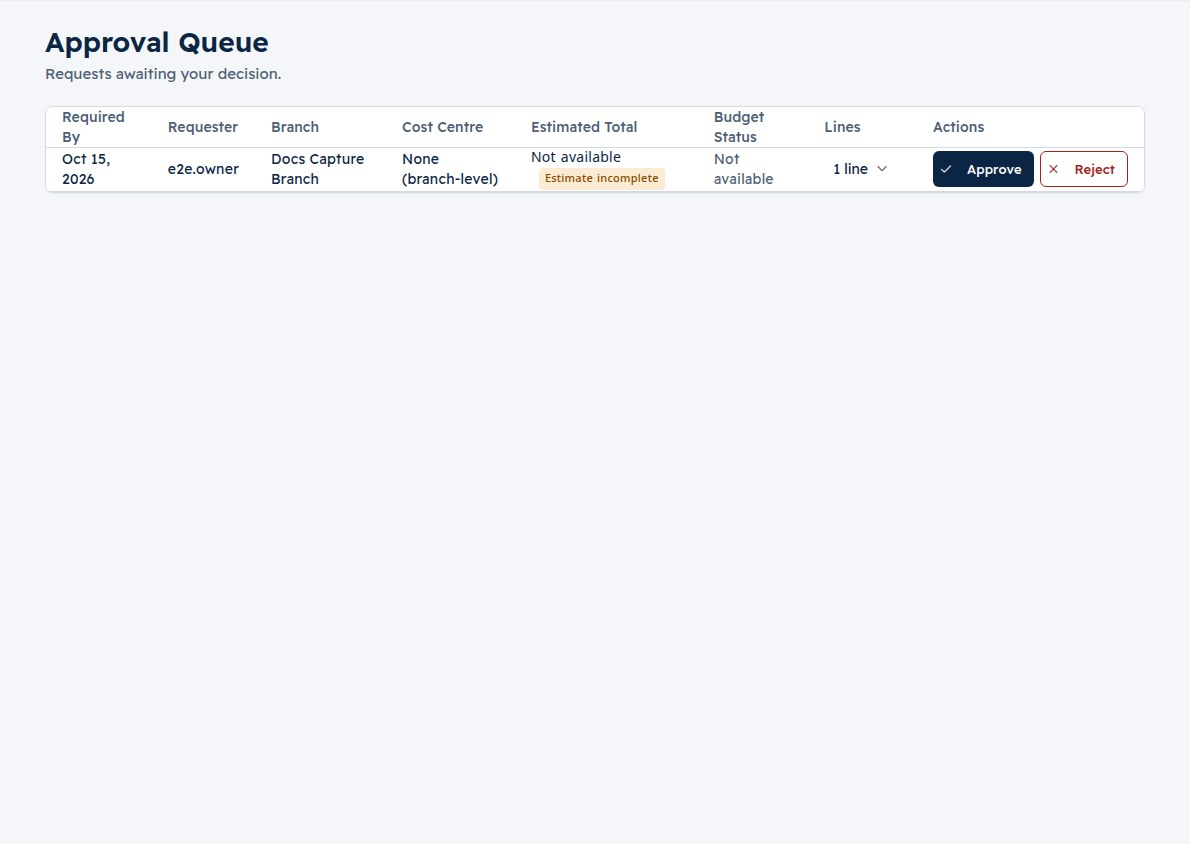
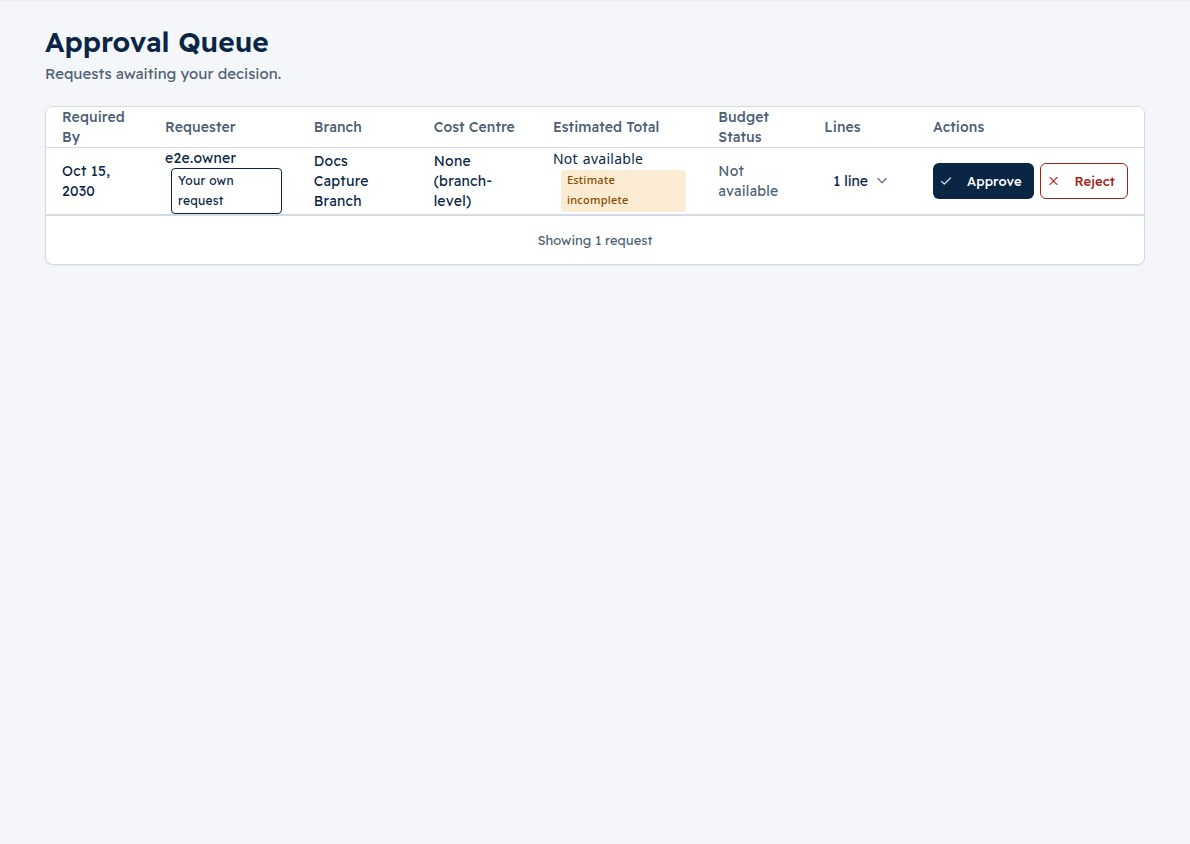
feat(approvals): show self-approved decisions and explain a refused self-decision on the web (P-173 web, PPS-167) (#496)
* feat(approvals): show self-approved decisions and explain a refused self-decision on the web (P-173 part 2, PPS-167)

The request page and the approval queue show when the requester is the
approver (a sole owner), and a refused decision by the requester gets its
own message and reloads the queue.

* fix(approvals): show the self-approved marks only where they are true (P-173 part 2, PPS-167)

* docs(screenshots): refresh the approval queue capture for the own-request badge (P-173 part 2, PPS-167)

Only the file flagged by the drift gate (2.07% of pixels, threshold 1%).

---------

diff --git a/apps/web/src/app/features/approvals/approval-queue/approval-queue.component.spec.ts b/apps/web/src/app/features/approvals/approval-queue/approval-queue.component.spec.ts
@@ -92,11 +92,12 @@ describe('ApprovalQueueComponent', () => {
   let snackBarSpy: jasmine.SpyObj<MatSnackBar>;
   let routerSpy: jasmine.SpyObj<Router>;
   const role = signal<Role | null>('buyer');
-  let sessionSpy: { hasRole: jasmine.Spy; role: typeof role };
+  let sessionSpy: { hasRole: jasmine.Spy; role: typeof role; currentMember: jasmine.Spy };
 
   beforeEach(async () => {
     role.set('buyer');
     sessionSpy = {
+      currentMember: jasmine.createSpy('currentMember').and.returnValue({ membership_id: 'mem-requester-1' }),
       hasRole: jasmine.createSpy('hasRole').and.callFake((...roles: readonly Role[]) => {
         const current = role();
         return current ? roles.includes(current) : false;
@@ -212,6 +213,103 @@ describe('ApprovalQueueComponent', () => {
     fixture = TestBed.createComponent(ApprovalQueueComponent);
     component = fixture.componentInstance;
     fixture.detectChanges();
+  });
+
+  describe('PPS-167 self approval', () => {
+    function markedRequest(flag: boolean | undefined): PurchaseRequest {
+      const step = {
+        id: 'step-own', assigned_membership_id: 'mem-requester-1',
+        source: 'owner_fallback' as const, status: 'pending' as const,
+        ...(flag === undefined ? {} : { self_approval: flag }),
+      };
+      return { ...mockPendingRequests[0], approval_step: step };
+    }
+
+    for (const split of [false, true]) {
+      for (const viewer of ['another-member', null]) {
+        it(`hides a colleague's self-approval badge: split=${split}, viewer=${viewer}`, () => {
+          sessionSpy.currentMember.and.returnValue(viewer ? { membership_id: viewer } : null);
+          const request = markedRequest(true);
+          component.pendingRequests.set(split ? [{
+            ...request,
+            request_group: {
+              id: 'group-own', rfq_id: 'rfq-own', position: 1, size: 1,
+              combined_total: { amount: '1250', currency: 'SAR' },
+              best_single_total: null, saving: null, sibling_request_ids: [],
+            },
+          }] : [request]);
+          fixture.detectChanges();
+          expect((fixture.nativeElement as HTMLElement).querySelector('.own-request-badge')).toBeNull();
+        });
+      }
+    }
+
+    for (const locale of ['en', 'ar']) {
+      for (const flag of [true, false, undefined]) {
+        for (const split of [false, true]) {
+          it(`renders own-request badge only for true: ${locale}, ${flag}, split=${split}`, () => {
+            TestBed.inject(TranslateService).use(locale);
+            const marked = markedRequest(flag);
+            const requests = split
+              ? [{ ...markedRequest(true), requested_by_membership_id: 'another-member' }, { ...marked, id: 'req-other' }].map((request, i) => ({
+                  ...request,
+                  request_group: {
+                    id: 'group-own', rfq_id: 'rfq-own', position: i + 1, size: 2,
+                    combined_total: { amount: '2500', currency: 'SAR' },
+                    best_single_total: null, saving: null, sibling_request_ids: [],
+                  },
+                }))
+              : [marked];
+            component.pendingRequests.set(requests);
+            fixture.detectChanges();
+            const badges = (fixture.nativeElement as HTMLElement).querySelectorAll('.own-request-badge');
+            expect(badges.length).toBe(flag === true ? 1 : 0);
+            if (flag === true) {
+              expect(badges[0]?.textContent?.trim()).toBe(locale === 'ar' ? 'طلبك أنت' : 'Your own request');
+            }
+          });
+        }
+      }
+      for (const action of ['approve', 'reject'] as const) {
+        for (const split of [false, true]) {
+          it(`localizes refused ${action}, reloads stale rows: ${locale}, split=${split}`, () => {
+            TestBed.inject(TranslateService).use(locale);
+            const failure = throwError(() => new HttpErrorResponse({
+              status: 403, error: { message: 'Generic refusal', details: { reason: 'self_decision_not_allowed' } },
+            }));
+            requestsApi.approveRequest.and.returnValue(failure);
+            requestsApi.rejectRequest.and.returnValue(failure);
+            approvalsApi.approveGroup.and.returnValue(failure);
+            approvalsApi.rejectGroup.and.returnValue(failure);
+            approvalsApi.listPendingApprovals.and.returnValue(of({ items: [], next_cursor: null }));
+            const before = approvalsApi.listPendingApprovals.calls.count();
+            if (split) component.submitGroupDecision('group-own', action);
+            else component.submitDecision('req-001', action);
+            fixture.detectChanges();
+            const message = locale === 'ar'
+              ? 'لا يمكنك اعتماد أو رفض طلب قدّمته بنفسك. يجب أن يتخذ القرار مالك آخر أو مسؤول اعتماد.'
+              : "You can't decide a request you submitted. Another owner or approver needs to decide it.";
+            expect(component.errorMessage()).toBe(message);
+            expect((fixture.nativeElement as HTMLElement).textContent).toContain(message);
+            expect(approvalsApi.listPendingApprovals.calls.count()).toBe(before + 1);
+            expect(component.pendingRequests()).toEqual([]);
+          });
+        }
+      }
+    }
+
+    for (const reason of ['another_reason', undefined]) {
+      it(`preserves other 403 behaviour: ${reason}`, () => {
+        const before = approvalsApi.listPendingApprovals.calls.count();
+        requestsApi.approveRequest.and.returnValue(throwError(() => new HttpErrorResponse({
+          status: 403, error: { message: 'Existing refusal', trace_id: 'trace-own', details: { reason } },
+        })));
+        component.submitDecision('req-001', 'approve');
+        expect(component.errorMessage()).toBe('Existing refusal');
+        expect(component.errorTraceId()).toBe('trace-own');
+        expect(approvalsApi.listPendingApprovals.calls.count()).toBe(before);
+      });
+    }
   });
 
   it('should load pending approvals with limit 50 on init', () => {

diff --git a/apps/web/src/app/features/requests/request-form/request-form.component.spec.ts b/apps/web/src/app/features/requests/request-form/request-form.component.spec.ts
@@ -130,6 +130,53 @@ describe('RequestFormComponent — create mode (T017)', () => {
     fixture.detectChanges();
   });
 
+  describe('PPS-167 self approval marker', () => {
+    for (const locale of ['en', 'ar']) {
+      for (const status of ['pending', 'approved', 'rejected'] as const) {
+        for (const flag of [true, false, undefined]) {
+          it(`renders the marker for ${locale}, ${status}, self_approval=${flag}`, () => {
+            const translate = TestBed.inject(TranslateService);
+            translate.setTranslation('ar', arCatalog);
+            translate.use(locale);
+            const step = {
+              id: 'step-own', assigned_membership_id: 'm1',
+              source: 'owner_fallback' as const, status,
+              ...(flag === undefined ? {} : { self_approval: flag }),
+            };
+            requestsApi.getRequest.and.returnValue(of({
+              ...mockRequest, status: 'submitted', approval_step: step,
+            }));
+            routeParams.next(convertToParamMap({ id: 'r1' }));
+            fixture.detectChanges();
+            const marker = (fixture.nativeElement as HTMLElement).querySelector('.self-approval');
+            if (flag !== true) {
+              expect(marker).toBeNull();
+              return;
+            }
+            expect(marker).not.toBeNull();
+            expect(marker?.querySelector('mat-icon')?.getAttribute('aria-hidden')).toBe('true');
+            if (status === 'pending') {
+              expect(marker?.textContent).toContain(locale === 'ar'
+                ? 'مُسند إلى مقدّم الطلب'
+                : 'Assigned to the requester');
+              expect(marker?.textContent).not.toContain(locale === 'ar' ? 'المالك الوحيد' : 'the only owner');
+              expect(marker?.textContent).not.toContain('Decided by the person');
+            } else {
+              const approvedLabel = locale === 'ar' ? 'اعتماد ذاتي' : 'Self-approved';
+              const rejectedLabel = locale === 'ar' ? 'رفض ذاتي' : 'Self-rejected';
+              expect(marker?.textContent).toContain(status === 'approved' ? approvedLabel : rejectedLabel);
+              expect(marker?.textContent).not.toContain(status === 'approved' ? rejectedLabel : approvedLabel);
+              expect(marker?.textContent).toContain(locale === 'ar'
+                ? 'اتخذ القرار الشخص الذي قدّم الطلب'
+                : 'Decided by the person who submitted it');
+              expect(marker?.textContent).not.toContain('Assigned to the requester');
+            }
+          });
+        }
+      }
+    }
+  });
+
   describe('PPS-193 pack hints and Save and submit', () => {
     const product: Product = {
       id: 'wp1', tenant_name: 'Flour', canonical_name: 'Flour', base_unit: 'kg',

diff --git a/apps/web/src/app/features/approvals/approval-queue/approval-queue.component.ts b/apps/web/src/app/features/approvals/approval-queue/approval-queue.component.ts
@@ -578,6 +578,17 @@ export class ApprovalQueueComponent implements OnInit {
     });
   }
 
+  isOwnRequest(item: QueueItem): boolean {
+    const membershipId = this.session.currentMember()?.membership_id;
+    if (!membershipId) return false;
+    const isOwn = (request: PurchaseRequest): boolean =>
+      request.approval_step?.self_approval === true &&
+      request.requested_by_membership_id === membershipId;
+    return item.kind === 'group'
+      ? item.requests.some(isOwn)
+      : isOwn(item.request);
+  }
+
   isGroupRow(item: QueueItem): item is GroupQueueItem {
     return item.kind === 'group';
   }
@@ -949,6 +960,11 @@ export class ApprovalQueueComponent implements OnInit {
     if (err instanceof HttpErrorResponse) {
       const apiError = err.error as ApiError | undefined;
       const details = apiError?.details as { reason?: string } | undefined;
+      if (err.status === 403 && details?.reason === 'self_decision_not_allowed') {
+        this.loadPendingApprovals();
+        this.errorMessage.set(this.translate.instant('approvals.selfDecisionNotAllowed'));
+        return;
+      }
       if (err.status === 409 && details?.reason === 'part_of_split') {
         this.errorMessage.set(this.translate.instant(`${I18N}.partOfSplitError`));
         return;

diff --git a/apps/web/src/app/features/requests/request-form/request-form.component.html b/apps/web/src/app/features/requests/request-form/request-form.component.html
@@ -287,6 +287,24 @@
                 {{ 'requests.status.' + step.status | translate }}
               </span>
 
+              @if (step.self_approval) {
+                <div class="self-approval">
+                  <mat-icon aria-hidden="true">person</mat-icon>
+                  <div>
+                    @if (step.status === 'pending') {
+                      <span>{{ 'requests.approval.selfApprovalPending' | translate }}</span>
+                    } @else {
+                      @if (step.status === 'approved') {
+                        <span>{{ 'requests.approval.selfApproved' | translate }}</span>
+                      } @else if (step.status === 'rejected') {
+                        <span>{{ 'requests.approval.selfRejected' | translate }}</span>
+                      }
+                      <p>{{ 'requests.approval.selfApprovedHint' | translate }}</p>
+                    }
+                  </div>
+                </div>
+              }
+
               <div class="approval-meta">
                 <span>{{ 'requests.approval.assignedTo' | translate }}</span>
                 <span>{{ step.assigned_name?.trim() || step.assigned_email || (memberEmailById().get(step.assigned_membership_id) ?? step.assigned_membership_id) }}</span>

diff --git a/apps/web/src/app/features/approvals/approval-queue/approval-queue.component.scss b/apps/web/src/app/features/approvals/approval-queue/approval-queue.component.scss
@@ -219,7 +219,21 @@ td.date-cell {
 .lines-cell,
 .actions-cell,
 .requester-cell {
-  white-space: nowrap;
+  white-space: normal;
+  overflow-wrap: anywhere;
+}
+
+.own-request-badge {
+  display: inline-block;
+  max-inline-size: 100%;
+  margin-inline-start: 0.375rem;
+  padding-inline: 0.375rem;
+  padding-block: 0.125rem;
+  border: 1px solid currentColor;
+  border-radius: 0.25rem;
+  font-size: 0.75rem;
+  white-space: normal;
+  overflow-wrap: anywhere;
 }
 
 .requester-email-truncate {

diff --git a/apps/web/src/app/core/api/models.ts b/apps/web/src/app/core/api/models.ts
@@ -1514,6 +1514,7 @@ export interface ApprovalStep {
   readonly source: ApprovalStepSource;
   readonly status: ApprovalStepStatus;
   readonly comment?: string | null;
+  readonly self_approval?: boolean;
   readonly decided_by_membership_id?: string | null;
   readonly decided_at?: string | null;
 }

diff --git a/apps/web/src/app/features/approvals/approval-queue/approval-queue.component.html b/apps/web/src/app/features/approvals/approval-queue/approval-queue.component.html
@@ -57,6 +57,9 @@
               } @else {
                 {{ reqInfo.text }}
               }
+              @if (isOwnRequest(row)) {
+                <span class="own-request-badge">{{ 'approvals.ownRequestBadge' | translate }}</span>
+              }
             </td>
           </ng-container>
 

diff --git a/apps/web/src/app/features/requests/request-form/request-form.component.scss b/apps/web/src/app/features/requests/request-form/request-form.component.scss
@@ -421,3 +421,14 @@
   font-weight: 500;
   margin-inline-start: 0.5rem;
 }
+
+.self-approval {
+  display: flex;
+  align-items: flex-start;
+  gap: 0.5rem;
+  font-size: 0.875rem;
+  overflow-wrap: anywhere;
+
+  mat-icon { flex-shrink: 0; }
+  p { margin-block: 0.25rem 0; }
+}
